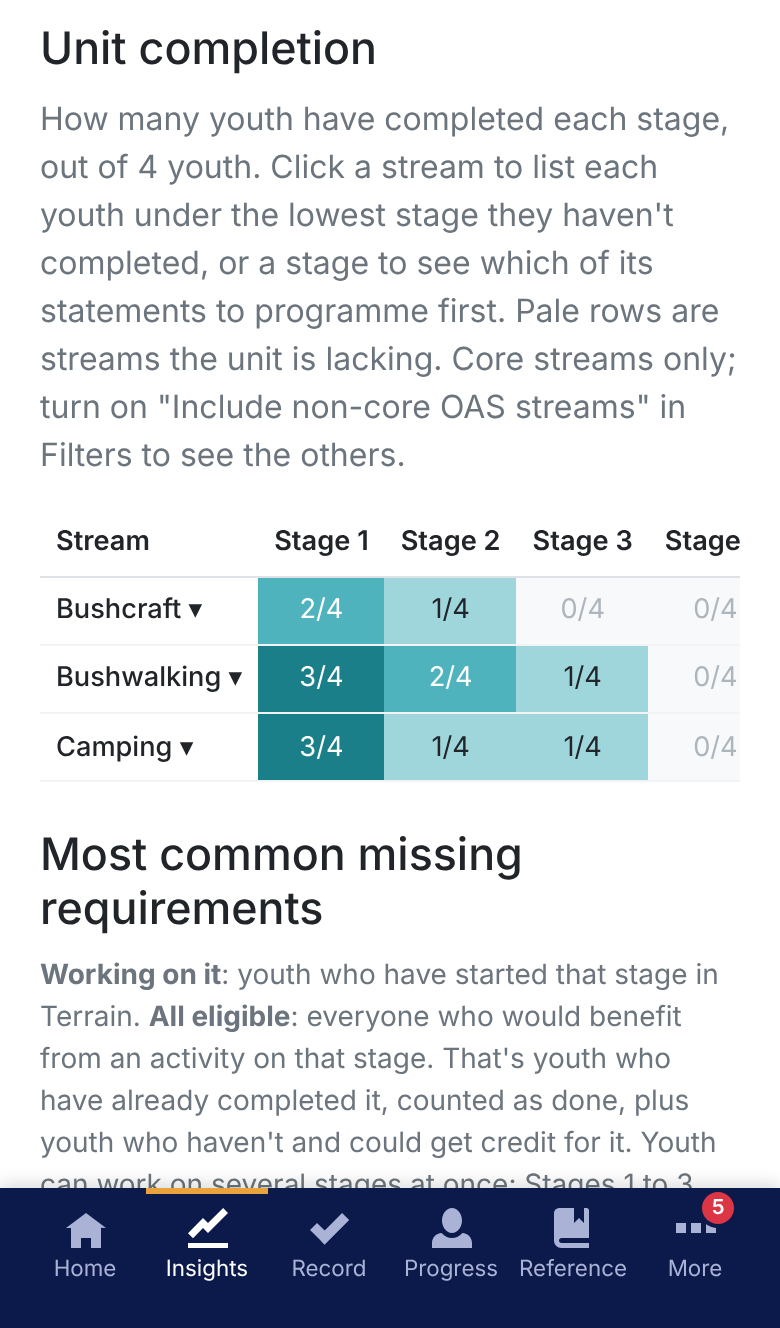
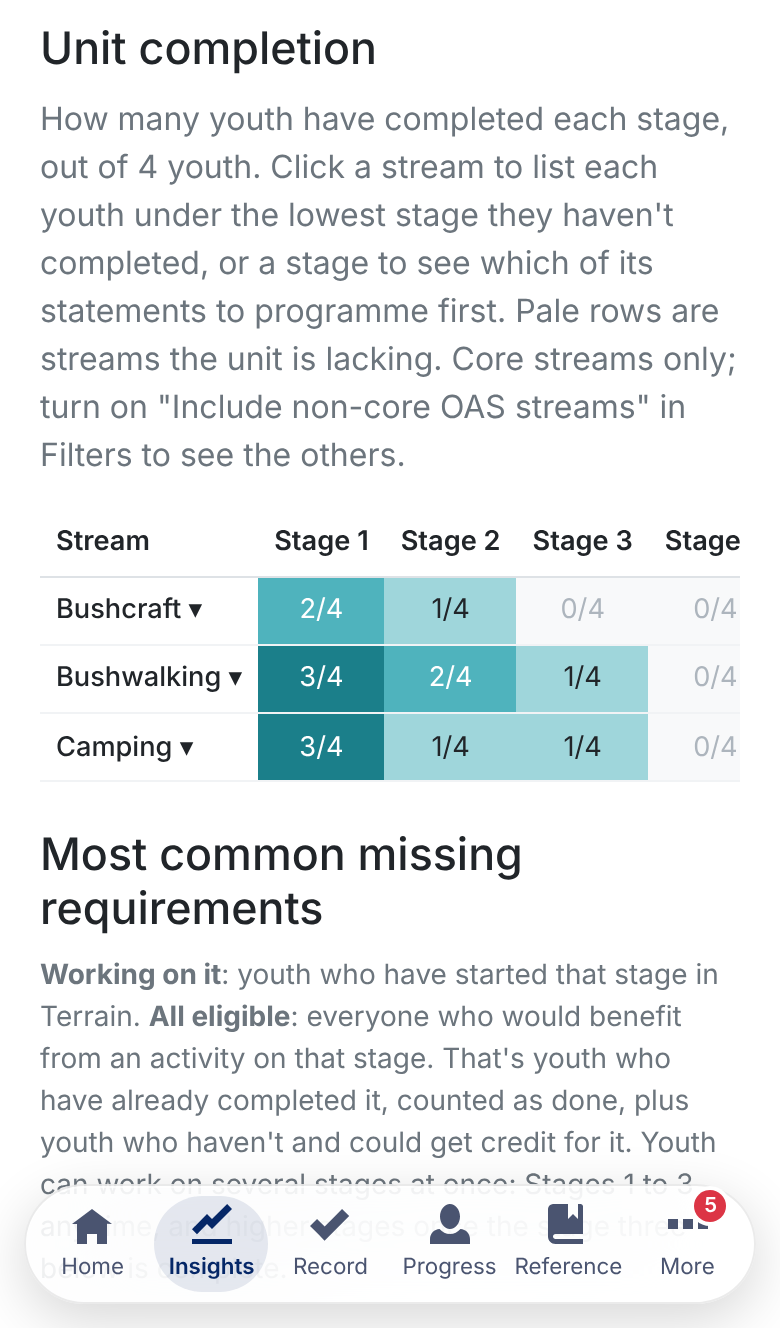
Phone design: floating glass tab bar and action bar, rounder corners
In the style of the phone's own apps (Liquid Glass):
- The tab bar is a translucent pill floating above the bottom of the
  screen, with what's behind it blurred, and the current tab in its own
  pill instead of the navy bar with an orange underline.
- The More menu and the bottom action bar (e.g. Choose youth, Next) float
  the same way, the action bar as a pill just above the tabs.
- Corners are rounder throughout (--radius 0.75rem, cards and panels
  --radius-lg), and the round refresh and filter buttons are circles.

Glass colours are theme tokens (--glass-*) with dark mode versions; the
desktop sidebar is unchanged. README screenshots are taken again.

Claude-Session: https://claude.ai/code/session_015mRLp29RKmPLuQrvmduhrB

Changed region(s): [[0.0, 0.8953, 1.0, 1.0]]

diff --git a/src/lib/components/AppNav.svelte b/src/lib/components/AppNav.svelte
@@ -254,19 +254,25 @@
 		}
 	}
 
-	/* Phone tab bar */
+	/* Phone tab bar: a glass pill floating above the bottom of the screen */
 	.tab-bar {
 		position: fixed;
-		left: 0;
-		right: 0;
-		bottom: 0;
+		left: max(env(safe-area-inset-left), 0.75rem);
+		right: max(env(safe-area-inset-right), 0.75rem);
+		bottom: var(--tab-bar-bottom);
 		z-index: 20;
 		display: flex;
-		height: var(--tab-bar-height);
-		padding: 0 max(env(safe-area-inset-right), 0.75rem) var(--tab-bar-bottom)
-			max(env(safe-area-inset-left), 0.75rem);
-		background: var(--tab-bar-bg);
-		box-shadow: 0 -2px 8px rgba(0, 0, 0, 0.15);
+		gap: 0.15rem;
+		height: var(--tab-bar-pill);
+		padding: 0.3rem;
+		border: 1px solid var(--glass-edge);
+		border-radius: 999px;
+		background: var(--glass-bg);
+		box-shadow:
+			var(--glass-shadow),
+			inset 0 1px 0 var(--glass-highlight);
+		-webkit-backdrop-filter: blur(28px) saturate(180%);
+		backdrop-filter: blur(28px) saturate(180%);
 	}
 
 	.tab {
@@ -279,8 +285,9 @@
 		min-width: 0;
 		padding: 0;
 		border: 0;
+		border-radius: 999px;
 		background: none;
-		color: var(--tab-bar-text);
+		color: var(--glass-text);
 		font: inherit;
 		font-size: 0.7rem;
 		text-decoration: none;
@@ -292,9 +299,11 @@
 		font-size: 1.25rem;
 	}
 
+	/* The current tab sits in its own pill */
 	.tab.active {
-		color: #fff;
-		box-shadow: inset 0 3px 0 var(--accent);
+		background: var(--glass-active-bg);
+		color: var(--glass-active-text);
+		font-weight: 600;
 	}
 
 	/* The More tab's count sits on the corner of its icon */
@@ -308,7 +317,7 @@
 		top: -0.45rem;
 		left: 0.85rem;
 		font-size: 0.65rem;
-		box-shadow: 0 0 0 2px var(--tab-bar-bg);
+		box-shadow: 0 0 0 2px var(--surface);
 	}
 
 	/* A count beside a page's name in the sidebar and the More menu, pushed to the right */
@@ -341,14 +350,20 @@
 
 	.more-menu {
 		position: fixed;
-		right: 0.5rem;
+		right: max(env(safe-area-inset-right), 0.75rem);
 		bottom: calc(var(--tab-bar-height) + 0.5rem);
 		z-index: 22;
 		min-width: 13rem;
 		padding: 0.35rem 0;
-		border-radius: 0.6rem;
-		background: var(--surface);
-		box-shadow: var(--shadow);
+		overflow: hidden;
+		border: 1px solid var(--glass-edge);
+		border-radius: var(--radius-lg);
+		background: var(--glass-bg);
+		box-shadow:
+			var(--glass-shadow),
+			inset 0 1px 0 var(--glass-highlight);
+		-webkit-backdrop-filter: blur(28px) saturate(180%);
+		backdrop-filter: blur(28px) saturate(180%);
 	}
 
 	.more-item {

diff --git a/src/lib/styles/theme.css b/src/lib/styles/theme.css
@@ -20,8 +20,6 @@
 	--brand: #052767;
 	--brand-text: #052767;
 	--brand-deep: #3a0647;
-	--tab-bar-bg: #0b1a4a;
-	--tab-bar-text: #aab3d6;
 	--accent: #e8a33d;
 
 	--link: #0071c1;
@@ -50,14 +48,28 @@
 	--hover: rgba(5, 39, 103, 0.06);
 	--shadow: 0 6px 24px rgba(0, 0, 0, 0.18);
 
-	--radius: 0.375rem;
+	--radius: 0.75rem;
+	/* Cards and panels: rounder still, as phones' own apps are */
+	--radius-lg: 1.1rem;
+
+	/* Floating glass: the tab bar, More menu and bottom action bar float over the page, translucent
+	   with what's behind blurred, as the phone's own apps do */
+	--glass-bg: rgba(255, 255, 255, 0.82);
+	--glass-edge: rgba(0, 0, 0, 0.08);
+	--glass-highlight: rgba(255, 255, 255, 0.7);
+	--glass-shadow: 0 8px 28px rgba(0, 0, 0, 0.16);
+	--glass-text: #4a5470;
+	--glass-active-bg: rgba(5, 39, 103, 0.1);
+	--glass-active-text: #052767;
 	--font:
 		'Helvetica Neue', Helvetica, Arial, system-ui, -apple-system, 'Segoe UI', Roboto, sans-serif;
 
-	/* Space below the tabs: the home indicator area where the phone reports one, and at least a little
-	   everywhere else so the tabs stay clear of rounded screen corners */
+	/* Space below the floating tabs: the home indicator area where the phone reports one, and at least a
+	   little everywhere else so they stay clear of rounded screen corners. The height is all the room the
+	   tabs take at the bottom, gap included */
 	--tab-bar-bottom: max(env(safe-area-inset-bottom), 0.75rem);
-	--tab-bar-height: calc(3.6rem + var(--tab-bar-bottom));
+	--tab-bar-pill: 3.75rem;
+	--tab-bar-height: calc(var(--tab-bar-pill) + var(--tab-bar-bottom));
 
 	/* Reference: an open statement, and the starred list's banner */
 	--ref-open-bg: #f8fbfc;
@@ -106,5 +118,13 @@
 		--stripe: rgba(255, 255, 255, 0.04);
 		--hover: rgba(157, 187, 255, 0.08);
 		--shadow: 0 6px 24px rgba(0, 0, 0, 0.5);
+
+		--glass-bg: rgba(40, 45, 54, 0.78);
+		--glass-edge: rgba(255, 255, 255, 0.12);
+		--glass-highlight: rgba(255, 255, 255, 0.08);
+		--glass-shadow: 0 8px 28px rgba(0, 0, 0, 0.5);
+		--glass-text: #b9c0ca;
+		--glass-active-bg: rgba(255, 255, 255, 0.14);
+		--glass-active-text: #fff;
 	}
 }

diff --git a/src/lib/styles/base.css b/src/lib/styles/base.css
@@ -551,10 +551,29 @@ html:has(.tab-bar) {
 }
 
 @media (max-width: 640.98px) {
-	/* Just above the tab bar */
+	/* Floating glass, just above the tab bar */
 	body:has(.tab-bar) .action-bar {
-		bottom: var(--tab-bar-height);
-		padding-bottom: 0.6rem;
+		left: max(env(safe-area-inset-left), 0.75rem);
+		right: max(env(safe-area-inset-right), 0.75rem);
+		bottom: calc(var(--tab-bar-height) + 0.5rem);
+		padding: 0.5rem 0.5rem 0.5rem 1rem;
+		border: 1px solid var(--glass-edge);
+		border-radius: 999px;
+		background: var(--glass-bg);
+		box-shadow:
+			var(--glass-shadow),
+			inset 0 1px 0 var(--glass-highlight);
+		-webkit-backdrop-filter: blur(28px) saturate(180%);
+		backdrop-filter: blur(28px) saturate(180%);
+	}
+
+	body:has(.tab-bar) .action-bar .btn {
+		border-radius: 999px;
+	}
+
+	/* Room for the floating action bar as well as the tabs */
+	body:has(.tab-bar) .has-action-bar {
+		padding-bottom: 5.5rem;
 	}
 }
 

diff --git a/src/routes/approvals/+page.svelte b/src/routes/approvals/+page.svelte
@@ -731,6 +731,7 @@
 		width: 44px;
 		height: 44px;
 		padding: 0;
+		border-radius: 50%;
 	}
 
 	.unit-section + .unit-section {
@@ -784,7 +785,7 @@
 		margin-bottom: 0.5rem;
 		padding: 0.6rem 0.8rem;
 		border: 1px solid var(--border);
-		border-radius: 0.5rem;
+		border-radius: var(--radius-lg);
 		background: var(--surface);
 	}
 
@@ -857,7 +858,7 @@
 	.approvals-empty {
 		padding: 1.5rem 1rem;
 		border: 1px dashed var(--border);
-		border-radius: 0.5rem;
+		border-radius: var(--radius-lg);
 		color: var(--muted);
 		text-align: center;
 	}

diff --git a/src/routes/insights/+page.svelte b/src/routes/insights/+page.svelte
@@ -842,6 +842,7 @@
 		width: 44px;
 		height: 44px;
 		padding: 0;
+		border-radius: 50%;
 	}
 
 	/* How many filters differ from the defaults */
@@ -864,7 +865,7 @@
 		margin-bottom: 1rem;
 		padding: 0.25rem 0.9rem 0.75rem;
 		border: 1px solid var(--border);
-		border-radius: 0.5rem;
+		border-radius: var(--radius-lg);
 	}
 
 	.filters-section {
@@ -954,7 +955,7 @@
 	.stat-tile {
 		padding: 0.75rem 1rem;
 		border: 1px solid var(--border);
-		border-radius: 0.5rem;
+		border-radius: var(--radius-lg);
 		background: var(--surface);
 	}
 

diff --git a/src/lib/components/OASReference.svelte b/src/lib/components/OASReference.svelte
@@ -836,7 +836,7 @@
 	.as-cards .statement {
 		margin-bottom: 0.5rem;
 		border: 1px solid var(--border);
-		border-radius: 0.5rem;
+		border-radius: var(--radius-lg);
 		background: var(--surface);
 		box-shadow: 0 1px 2px rgba(0, 0, 0, 0.05);
 	}
@@ -869,7 +869,7 @@
 		.statement {
 			margin-bottom: 0.5rem;
 			border: 1px solid var(--border);
-			border-radius: 0.5rem;
+			border-radius: var(--radius-lg);
 			background: var(--surface);
 			box-shadow: 0 1px 2px rgba(0, 0, 0, 0.05);
 		}

diff --git a/src/routes/insights/stage/+page.svelte b/src/routes/insights/stage/+page.svelte
@@ -389,7 +389,7 @@
 	.stat-tile {
 		padding: 0.6rem 0.8rem;
 		border: 1px solid var(--border);
-		border-radius: 0.5rem;
+		border-radius: var(--radius-lg);
 		background: var(--surface);
 	}
 
@@ -427,7 +427,7 @@
 		gap: 0.6rem;
 		padding: 0.65rem 0.75rem;
 		border: 1px solid var(--border);
-		border-radius: 0.5rem;
+		border-radius: var(--radius-lg);
 		background: var(--surface);
 	}
 

diff --git a/src/lib/components/InstallHint.svelte b/src/lib/components/InstallHint.svelte
@@ -47,13 +47,13 @@
 		margin-bottom: 1rem;
 		padding: 0.75rem 0.9rem;
 		border: 1px solid var(--border);
-		border-radius: 0.6rem;
+		border-radius: var(--radius-lg);
 		background: var(--surface-2);
 	}
 
 	.install-icon {
 		flex-shrink: 0;
-		border-radius: 0.6rem;
+		border-radius: var(--radius-lg);
 	}
 
 	.install-text {

diff --git a/src/lib/components/ChooseUnit.svelte b/src/lib/components/ChooseUnit.svelte
@@ -23,7 +23,7 @@
 		margin-bottom: 1rem;
 		padding: 0.75rem 0.9rem;
 		border: 1px solid var(--border);
-		border-radius: 0.6rem;
+		border-radius: var(--radius-lg);
 		background: var(--surface-2);
 	}
 
